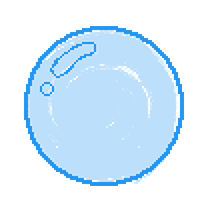
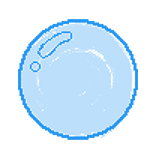
swimming animation
reeeeeeeee, things are slowwwww

diff --git a/tamokimchee.py b/tamokimchee.py
@@ -19,7 +19,12 @@ def appStarted(app):
     app.maxHappiness=10
     app.shiftMarginPositive = [10 + 5*i for i in range(9)]
     app.shiftMarginNegative = [-10 - 5*i for i in range(9)]
-    
+
+    #moving
+    app.swimAnimations = [1,2,3,2]
+    app.kimcheei = 0
+    app.moving = True
+    app.timerDelay=10
 def resetAxolotlStats(app):
     app.hunger=10
     app.age=0
@@ -30,8 +35,17 @@ def mousePressed(app, event):
     return
 
 def keyPressed(app, event):
-    
-    return
+    if event.key == "Left":
+        app.moving = True
+        app.kimcheeX -= 10
+
+    elif event.key == "Right":
+        app.moving = True
+        app.kimcheeX+=10
+
+
+def keyReleased(app, event):
+    app.moving = False
 
 def timerFired(app):
     #seaweed sprite animation
@@ -42,7 +56,43 @@ def timerFired(app):
         if i>3:
             i=1
         app.seaweed[n]=(x,y,i,s)
+    if app.moving:
+        app.kimcheei += 1
+        app.kimcheei %= len(app.swimAnimations)
     return
+
+def moveKimchee(app, dx):
+    app.kimcheeX += dx*10
+    
+    return
+    
+def updateBubbles(app):
+    while len(app.bubbles) < 5:
+        bubbleX = random.randint(250, 1150)
+        bubbleY = random.randint(600, 750)
+        app.bubbles.append([bubbleX, bubbleY, 1])
+    index =  0
+    while index < len(app.bubbles):
+        bubble = app.bubbles[index]
+        if bubble[1] <= 400:
+            app.bubbles.pop(index)
+        else:
+            if len(app.shiftMarginPositive) == 0:
+                app.shiftMarginPositive == [10 + 5*i for i in range(9)]
+            if len(app.shiftMarginNegative) == 0:
+                app.shiftMarginNegative == [-10 - 5*i for i in range(9)]
+            if bubble[2] == 1:
+                # upperLimit = len(app.shiftMarginPositive)
+                # index2 = random.randint(0, upperLimit)
+                # bubble[0] += app.shiftMarginPositive.pop(index2)
+                bubble[1] -= 25
+            elif bubble[2] == -1:
+                # upperLimit = len(app.shiftMarginNegative)
+                # index2 = random.randint(0, upperLimit)
+                # bubble[0] += app.shiftMarginNegative.pop(index2)
+                bubble[1] -= 25
+            bubble[2] *= -1
+        index+=1
 
 ###############################################################################
 #VIEW
@@ -59,42 +109,25 @@ def drawDynamicAquarium(app, canvas):
     for x,y,i,l in app.seaweed:
             seaweed=PhotoImage(file=f"seaweed{i}{l}.png")
             canvas.create_image(x,y,image=seaweed)
-    for index in range(len(app.bubbles) - 1):
+    for index in range(len(app.bubbles)):
         bubble = app.bubbles[index]
         x, y = bubble[0], bubble[1]
-        if y >= 750:
-            app.bubbles.pop(index)
-        elif y >= 500 and y < 750:
+        if y <= 400:
+            pass
+        elif y <= 500 and y > 400:
             bubbleImage=PhotoImage(file='BubbleLarge.png')
             canvas.create_image(x,y,image=bubbleImage)
-        elif y >= 250 and y < 500:
+        elif y <= 600 and y > 500:
             bubbleImage=PhotoImage(file="BubbleMedium.png")
             canvas.create_image(x,y,image=bubbleImage)
         else:
             bubbleImage=PhotoImage(file="BubbleSmall.png")
             canvas.create_image(x,y,image=bubbleImage)
-    
-def updateBubbles(app):
-    while len(app.bubbles) < 5:
-        bubbleX = random.randint(300, 1100)
-        bubbleY = random.randint(700, 850)
-        app.bubbles.append([bubbleX, bubbleY, 1])
-    for bubble in app.bubbles:
-        if len(app.shiftMarginPositive) == 0:
-           app.shiftMarginPositive == [10 + 5*i for i in range(9)]
-        if len(app.shiftMarginNegative) == 0:
-           app.shiftMarginNegative == [-10 - 5*i for i in range(9)]
-        if bubble[2] == 1:
-           upperLimit = len(app.shiftMarginPositive) - 1
-           index = random.randint(0, upperLimit)
-           bubble[0] += app.shiftMarginPositive.pop(index)
-           bubble[1] -= 1
-        else:
-           upperLimit = len(app.shiftMarginNegative) - 1
-           index = random.randint(0, upperLimit)
-           bubble[0] += app.shiftMarginNegative.pop(index)
-           bubble[1] -= 1
-        bubble[2] *= -1
+
+def drawSwimmingKimchee(app, canvas):
+    i = app.swimAnimations[app.kimcheei]
+    swimchee=PhotoImage(file=f"swim{i}.png") 
+    canvas.create_image(app.width/2, app.height/2, image=swimchee)
     
 def drawKimcheeSmall(app, canvas):
     kimcheeSmall=PhotoImage(file="axolotlSmall.png") 
@@ -108,7 +141,6 @@ def drawKimcheeLarge(app, canvas):
     kimcheeLarge=PhotoImage(file="axolotlLarge.png") 
     canvas.create_image(app.width/2 + 400, app.height/2, image=kimcheeLarge)
 
- 
 
 def drawStats(app, canvas):
     x0,y0=150,10
@@ -136,6 +168,8 @@ def redrawAll(app, canvas):
     drawBackground(app, canvas)
     drawDynamicAquarium(app, canvas)
     # drawKimchee(app, canvas)  
+    if app.moving:
+        drawSwimmingKimchee(app, canvas)
     drawKimcheeSmall(app, canvas)  
     drawKimcheeMedium(app, canvas) 
     drawKimcheeLarge(app, canvas) 
